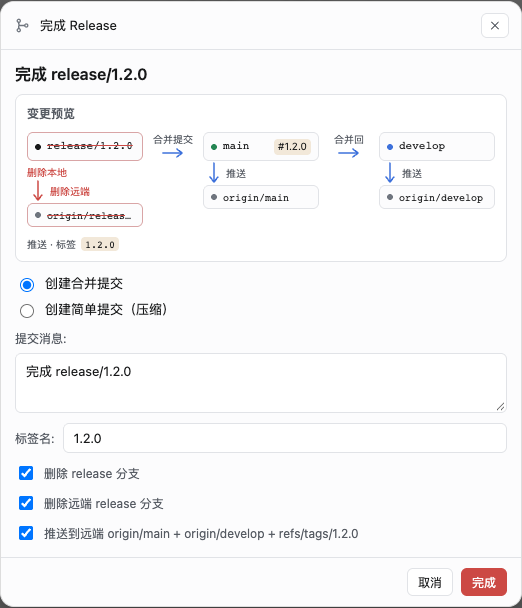
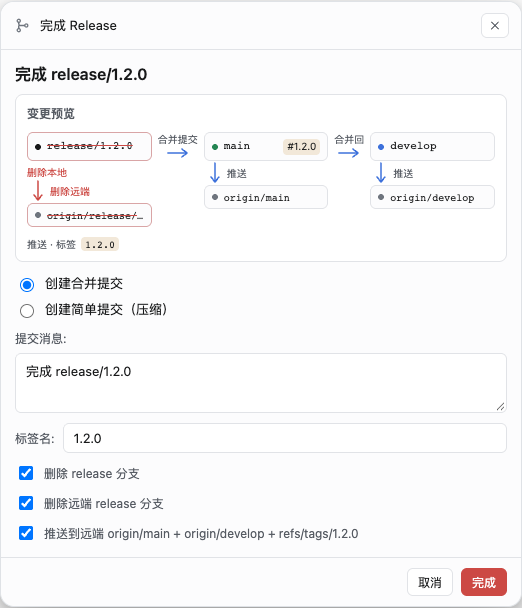
docs: 重拍 Git Flow 截图并补充英文版
截图背景改为浅色，去掉弹窗圆角外的深色遮罩；连线标签按内容宽度排布，英文不再折行。英文指南改用 -en 截图。

diff --git a/docs/git-flow-user-guide.en.md b/docs/git-flow-user-guide.en.md
@@ -45,13 +45,13 @@ In classic Git Flow, a Hotfix may also need to be synchronized into an in-progre
 
 The screenshots below were captured from the built client bundle rendered in Chrome. They show the About, Start Feature, Integrate develop and Finish Release interfaces. The repository data comes from an isolated test repository and does not represent a real project's history.
 
-![Git Flow core concepts and branch diagram](assets/screenshots/git-flow-about.png)
+![Git Flow core concepts and branch diagram](assets/screenshots/git-flow-about-en.png)
 
-![Start Feature: create feature/payment from develop and preview its push](assets/screenshots/git-flow-start-feature.png)
+![Start Feature: create feature/payment from develop and preview its push](assets/screenshots/git-flow-start-feature-en.png)
 
-![Integrate develop: merge develop into the current feature](assets/screenshots/git-flow-integrate-develop.png)
+![Integrate develop: merge develop into the current feature](assets/screenshots/git-flow-integrate-develop-en.png)
 
-![Finish Release: merge into the main line, tag, back-merge develop and push](assets/screenshots/git-flow-finish-release.png)
+![Finish Release: merge into the main line, tag, back-merge develop and push](assets/screenshots/git-flow-finish-release-en.png)
 
 ## Example: from feature work to a release
 
